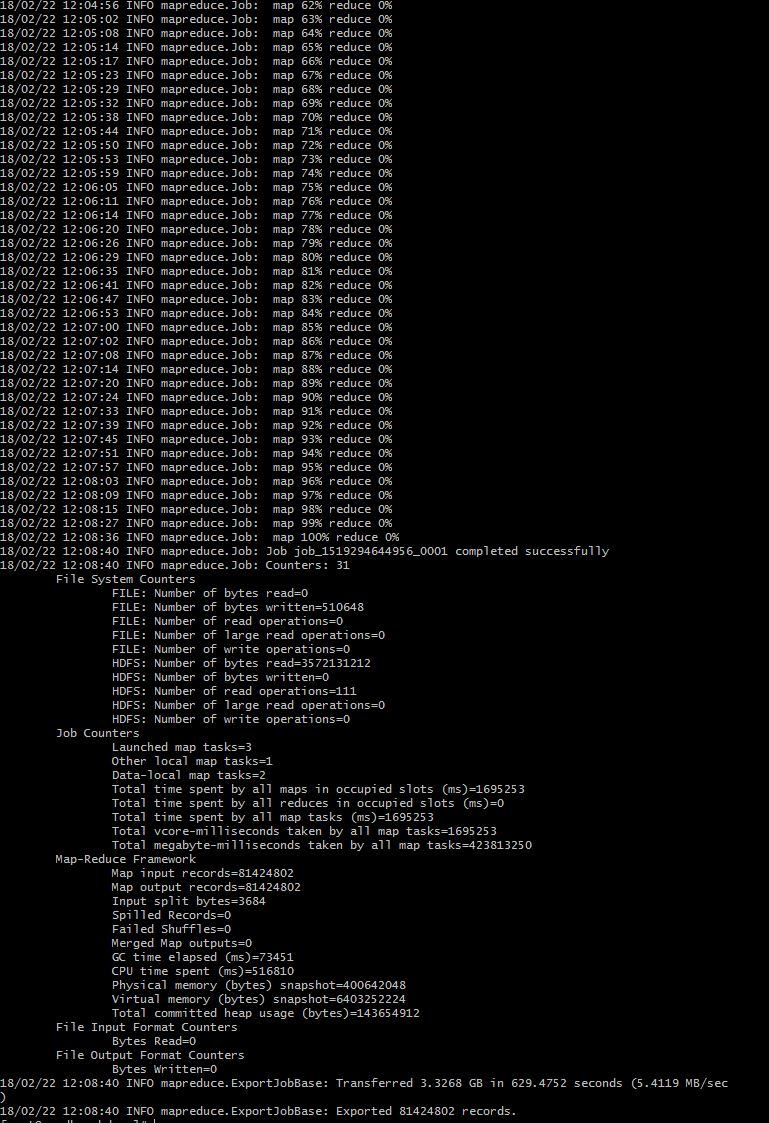
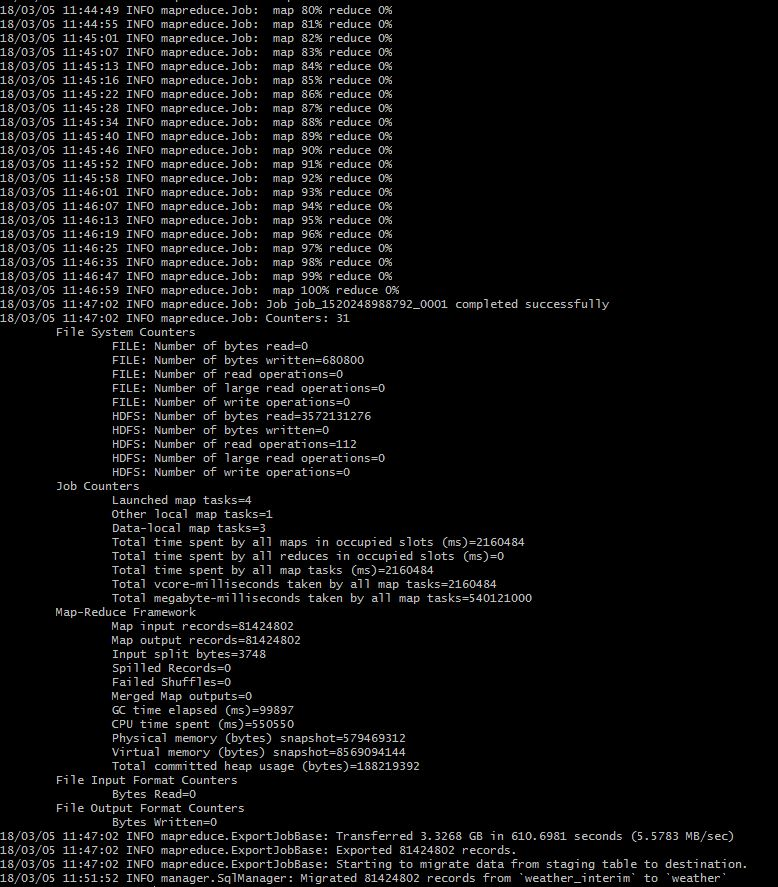
changed README and 2 screens of export process

Changed region(s): [[0.0, 0.0, 0.9675, 1.0]]

diff --git a/Sqoop/README.md b/Sqoop/README.md
@@ -13,3 +13,5 @@ Sqoop:
 ###	Solution:
 Prepare MySQL with script from sqoop-mysql-prepare.sql (it creates db and tables).
 Then execute shell script sqoop-start-export.sh (it starts sqoop job to exporting from local folder dataset into HDFS)
+You can try to change number of mappers by providing -m 'number' flag to speed up export process. It depends on your machine, etc.
+I tried export with 3 and 4 mappers, 4 mappers showed increasing of speed by 20 sec.
